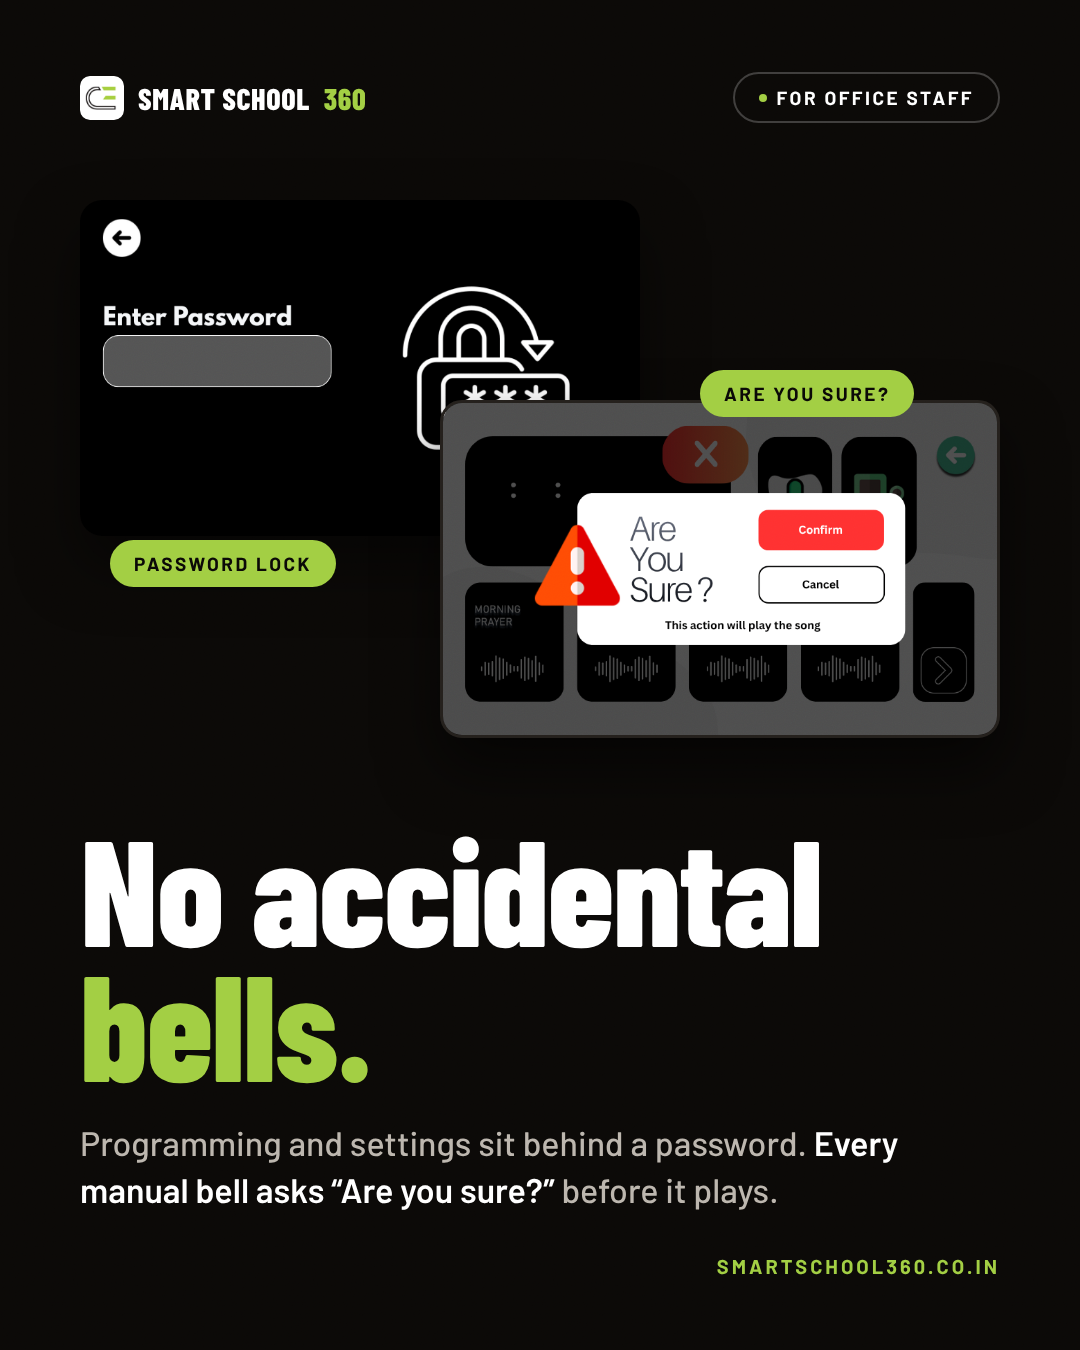
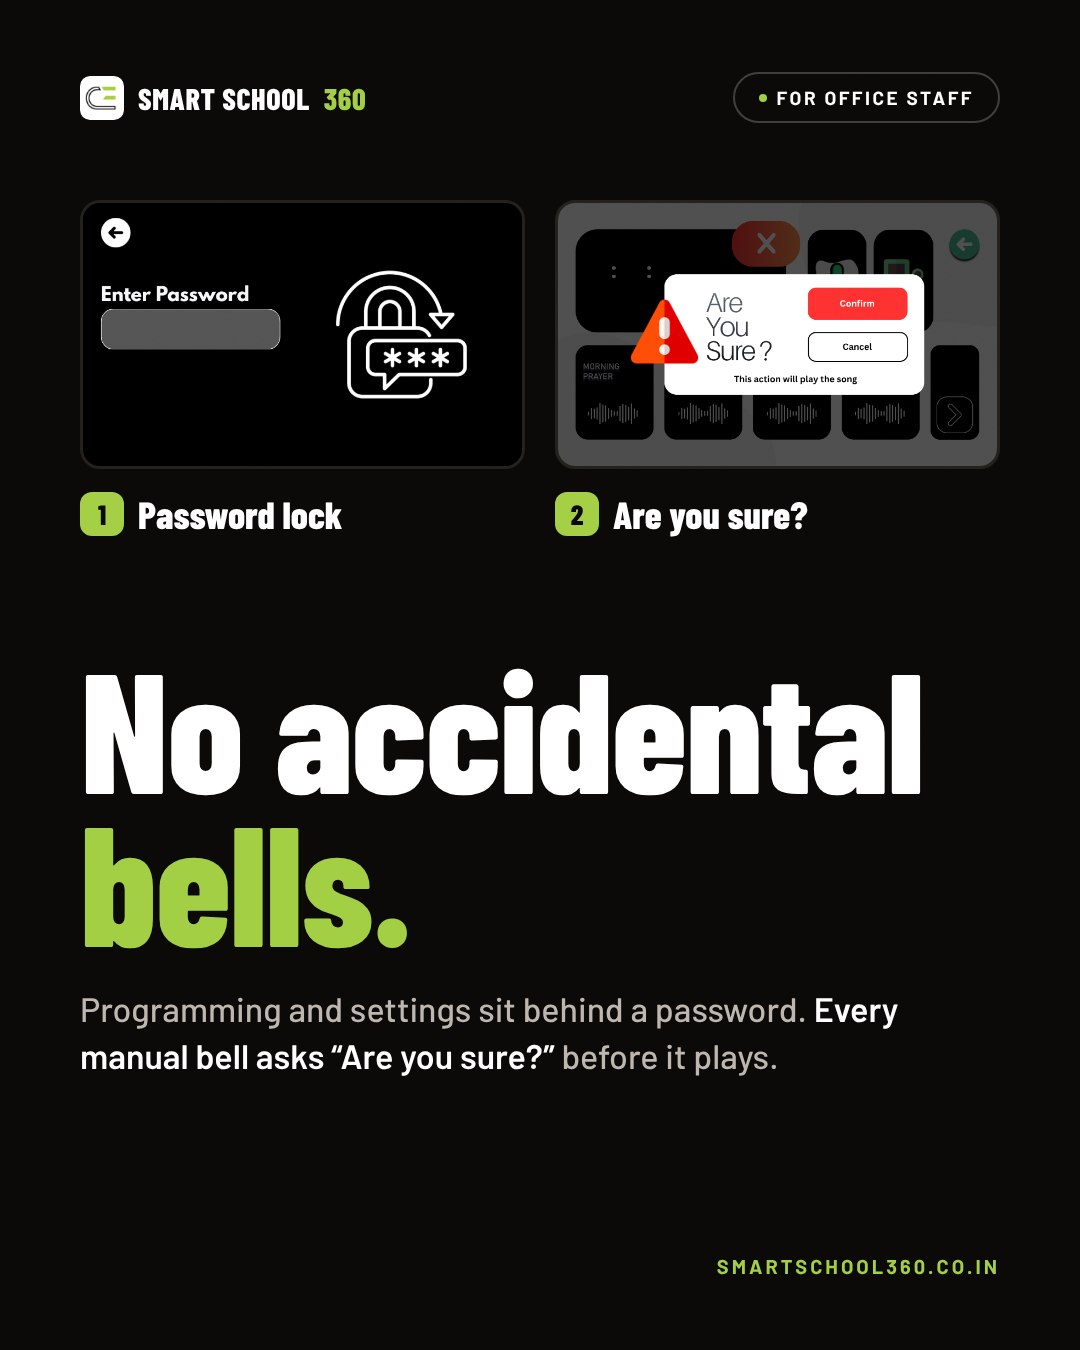
IG no-accidental-bells: show both screens side by side
Claude-Session: https://claude.ai/code/session_011aWs4DiXb65fPYrHruAJwC

Changed region(s): [[0.0611, 0.1244, 0.9472, 0.8089], [0.0611, 0.84, 0.825, 0.9022], [0.0611, 0.3422, 0.3361, 0.4356]]

diff --git a/templates-batch-nov4/ig/gen_b.py b/templates-batch-nov4/ig/gen_b.py
@@ -3,11 +3,9 @@ exec(open('gen.py').read().split('P={}')[0])
 P={}
 ring=lambda x,y,s: f'<div style="position:absolute;left:{x}px;top:{y}px;width:{s}px;height:{s}px;border-radius:50%;border:8px solid var(--lime);box-shadow:0 0 0 14px rgba(163,207,68,.25)"></div>'
 # 1 no accidental bells
-g=('<img src=password.png style="position:absolute;left:80px;top:200px;width:560px;border-radius:22px;box-shadow:0 30px 60px rgba(0,0,0,.5)">'
-   '<img src=are-you-sure.png style="position:absolute;left:440px;top:400px;width:560px;border-radius:22px;border:3px solid #24201C;box-shadow:0 30px 60px rgba(0,0,0,.6)">'
-   '<span class=chip style="position:absolute;left:110px;top:540px;background:var(--lime);color:var(--ink);z-index:3">Password lock</span>'
-   '<span class=chip style="position:absolute;left:700px;top:370px;background:var(--lime);color:var(--ink);z-index:3">Are you sure?</span>')
-P['post-1-no-accidental-bells']=[cover_graphic(1,1,'For office staff','No accidental<br><span>bells.</span>','Programming and settings sit behind a password. <b>Every manual bell asks “Are you sure?”</b> before it plays.',g,top_px=820,size=150)]
+BC="'Barlow Condensed'"
+g=(''.join(f'<div style="position:absolute;left:{x}px;top:200px;width:445px"><img src={img} style="width:445px;border-radius:20px;border:3px solid #24201C;display:block"><div style="margin-top:22px;display:flex;align-items:center;gap:14px"><span style="width:44px;height:44px;border-radius:12px;background:var(--lime);color:var(--ink);display:flex;align-items:center;justify-content:center;font:800 28px {BC}">{n}</span><span style="font:800 38px {BC};color:#fff">{t}</span></div></div>' for x,img,n,t in [(80,'password.png','1','Password lock'),(555,'are-you-sure.png','2','Are you sure?')]))
+P['post-1-no-accidental-bells']=[cover_graphic(1,1,'For office staff','No accidental<br><span>bells.</span>','Programming and settings sit behind a password. <b>Every manual bell asks “Are you sure?”</b> before it plays.',g,top_px=650,size=170)]
 # 2 mic + bell
 steps=[('10:58','Mic on','You start the morning announcement.','#fff','var(--ink)'),('11:00','Bell rings','The scheduled bell takes priority, right on time.','var(--lime)','var(--ink)'),('11:00','Mic back','Your announcement carries on by itself.','var(--ink)','#fff')]
 tl=''.join(f'<div style="display:flex;gap:34px;align-items:center;margin-bottom:22px"><div style="flex:none;width:210px;height:150px;border-radius:26px;background:{bg};color:{fg};display:flex;align-items:center;justify-content:center;font:800 76px \'Barlow Condensed\';{"box-shadow:0 18px 40px rgba(11,9,7,.07)" if bg=="#fff" else ""}">{t}</div><div><div style="font:800 52px/1 \'Barlow Condensed\'">{h}</div><div style="margin-top:8px;font:500 27px/1.35 Barlow;color:#6B655E">{d}</div></div></div>' for t,h,d,bg,fg in steps)
